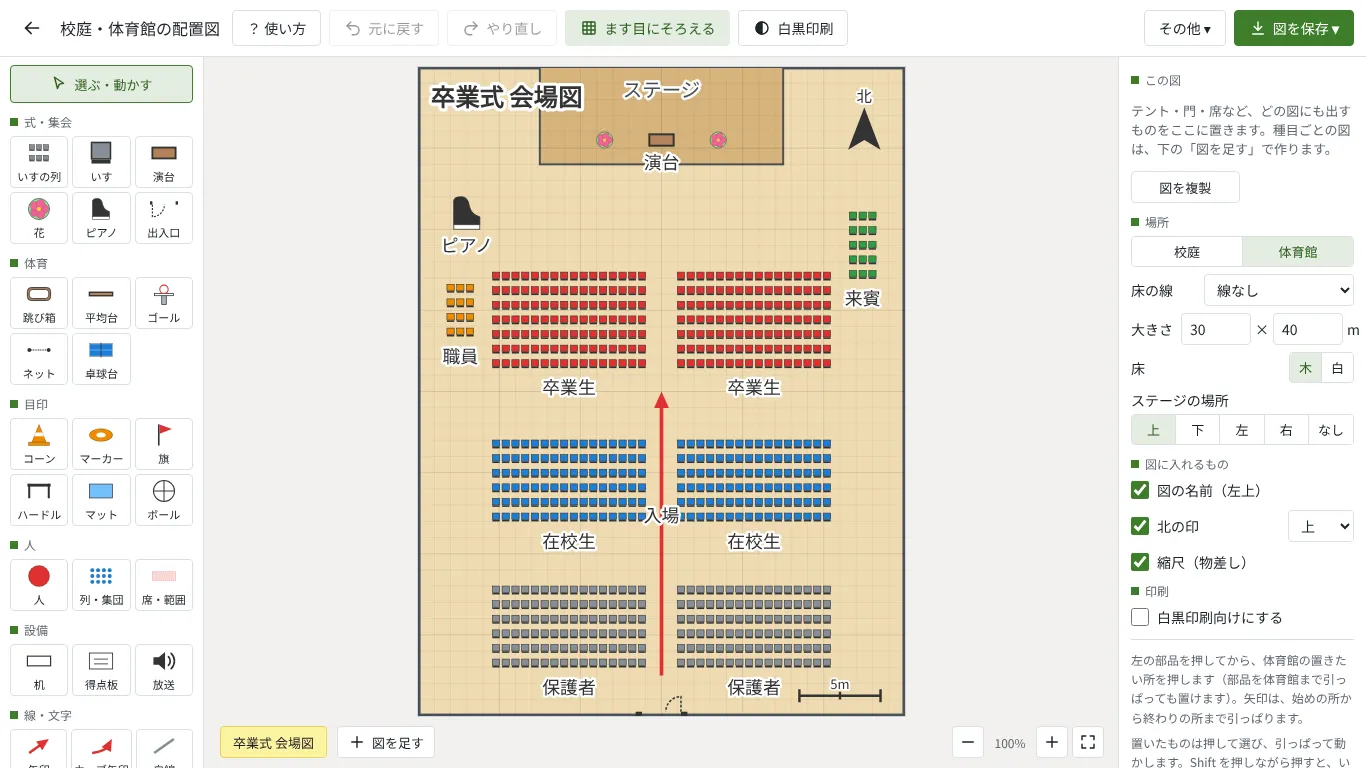
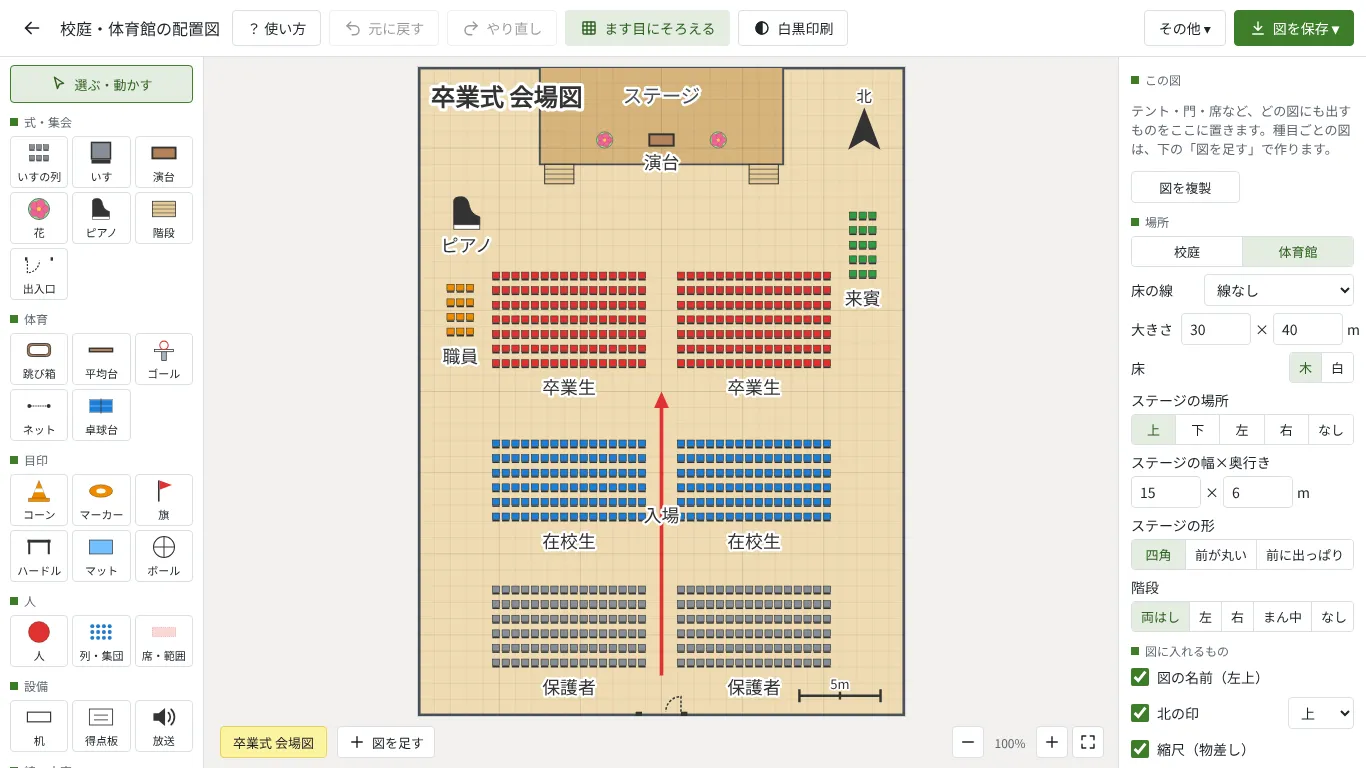
体育館のステージの幅・奥行き・形と階段を変えられるように
Claude-Session: https://claude.ai/code/session_01NRT8ofwJrEpkNX1s1YbXan

diff --git a/field-layout/drawing.js b/field-layout/drawing.js
@@ -1,7 +1,7 @@
 // Draws one figure (the school yard and what is on it) as SVG markup. The editor shows the same
 // markup that is saved as an image or PDF, so what you see is what you print.
 // Everything is in meters: the SVG's viewBox is the yard, 0 0 width height.
-import { PARTS, LINE_WIDTHS, LABEL_SIZE } from "./parts.js";
+import { PARTS, LINE_WIDTHS, LABEL_SIZE, STAIR_COLOR, drawStairs } from "./parts.js";
 
 // Where the figure is: the school yard (校庭) or the gym (体育館). Each starts with its own lines,
 // size and ground; parts are offered by place (parts.js).
@@ -35,6 +35,10 @@ export const GROUNDS = {
 };
 
 export const STAGES = { top: "上", bottom: "下", left: "左", right: "右", none: "なし" };
+export const STAGE_SHAPES = { rect: "四角", round: "前が丸い", apron: "前に出っぱり" };
+// "start" is the left end (the upper end when the stage is on a side wall).
+export const STAIRS = { both: "両はし", start: "左", end: "右", center: "まん中", none: "なし" };
+export const STAIRS_ACROSS = { ...STAIRS, start: "上", end: "下" };
 
 export const NORTH_ANGLES = { 0: "上", 45: "右上", 90: "右", 135: "右下", 180: "下", 225: "左下", 270: "左", 315: "左上" };
 
@@ -58,6 +62,10 @@ export function newDoc() {
     place: "yard",
     field: "track200",
     stage: "top",
+    stageWidth: 15,
+    stageDepth: 6,
+    stageShape: "rect",
+    stairs: "both",
     width: 110,
     height: 70,
     ground: "soil",
@@ -280,7 +288,6 @@ function drawTrack(doc, field, ink) {
 
 /* ---------- the gym ---------- */
 
-const STAGE_DEPTH = 6; // m
 const STAGE_COLOR = "#d6b47c";
 const COURT_LINE = 0.1; // m
 const COURTS = {
@@ -291,31 +298,66 @@ const COURTS = {
 
 // The floor of the gym: all of it but the side the stage is on.
 function floorRect(doc) {
-  const depth = doc.stage === "none" ? 0 : STAGE_DEPTH;
+  const depth = doc.stage === "none" ? 0 : doc.stageDepth;
   const x = doc.stage === "left" ? depth : 0;
   const y = doc.stage === "top" ? depth : 0;
   const across = doc.stage === "left" || doc.stage === "right";
   return { x, y, w: doc.width - (across ? depth : 0), h: doc.height - (across ? 0 : depth) };
 }
 
+// The stage is drawn as if it stood against the top wall (the wall at y = 0, its front at
+// y = depth, its middle at x = 0) and then turned onto its own wall.
+const STAGE_TURNS = {
+  top: (doc) => ({ at: [doc.width / 2, 0], angle: 0 }),
+  bottom: (doc) => ({ at: [doc.width / 2, doc.height], angle: 180 }),
+  left: (doc) => ({ at: [0, doc.height / 2], angle: -90 }),
+  right: (doc) => ({ at: [doc.width, doc.height / 2], angle: 90 }),
+};
+// Which way "start" (the left end, or the upper end on a side wall) lies along the stage.
+const START_SIDE = { top: -1, bottom: 1, left: 1, right: -1 };
+const STAIR = { w: 1.8, h: 1.2 }; // m
+
+function stageOutline(length, depth, shape) {
+  const half = length / 2;
+  if (shape === "round") {
+    const body = depth * 0.7;
+    return `M${fmt(-half)} 0H${fmt(half)}V${fmt(body)}Q0 ${fmt(depth * 1.3)} ${fmt(-half)} ${fmt(body)}Z`;
+  }
+  if (shape === "apron") {
+    const body = depth * 0.7;
+    const apron = Math.min(half, Math.max(2, length * 0.2));
+    return `M${fmt(-half)} 0H${fmt(half)}V${fmt(body)}H${fmt(apron)}V${fmt(depth)}H${fmt(-apron)}V${fmt(body)}H${fmt(-half)}Z`;
+  }
+  return `M${fmt(-half)} 0H${fmt(half)}V${fmt(depth)}H${fmt(-half)}Z`;
+}
+
+// Where the stairs go along the stage (x of their middle), at the front of the stage's ends.
+function stairSpots(doc, length) {
+  const end = length / 2 - STAIR.w / 2 - 0.3;
+  const start = START_SIDE[doc.stage] * end;
+  return { both: [-end, end], start: [start], end: [-start], center: [0], none: [] }[doc.stairs] ?? [];
+}
+
 function drawStage(doc, bw) {
   if (doc.stage === "none") return "";
   const across = doc.stage === "left" || doc.stage === "right";
   const side = across ? doc.height : doc.width;
-  const length = Math.min(side * 0.5, 16);
-  const start = (side - length) / 2;
-  const far = doc.stage === "right" || doc.stage === "bottom";
-  const depthAt = far ? (across ? doc.width : doc.height) - STAGE_DEPTH : 0;
-  const [x, y, w, h] = across ? [depthAt, start, STAGE_DEPTH, length] : [start, depthAt, length, STAGE_DEPTH];
+  const length = Math.min(doc.stageWidth, side);
+  const depth = doc.stageDepth;
+  const { at, angle } = STAGE_TURNS[doc.stage](doc);
   const fill = bw ? "#e9ecef" : STAGE_COLOR;
-  // The word goes near the back wall, leaving the front of the stage for a 演台 and its name.
-  const back = { top: [0, -0.28], bottom: [0, 0.28], left: [-0.28, 0], right: [0.28, 0] }[doc.stage];
-  const labelX = x + w / 2 + back[0] * w;
-  const labelY = y + h / 2 + back[1] * h;
-  // On a side wall the word runs along the wall, or it would not fit in the stage's depth.
-  const turn = across ? ` transform="rotate(${doc.stage === "left" ? -90 : 90} ${fmt(labelX)} ${fmt(labelY)})"` : "";
-  return `<rect x="${fmt(x)}" y="${fmt(y)}" width="${fmt(w)}" height="${fmt(h)}" fill="${fill}" stroke="#495057" stroke-width="0.12"/>` +
-    `<g font-family="${FONT}"${turn}>${words("ステージ", labelX, labelY, 1.2, { color: "#495057" })}</g>`;
+  const line = 'stroke="#495057" stroke-width="0.12"';
+  // The front edge of the body, where stairs stand (in front of a rounded or jutting front too).
+  const front = doc.stageShape === "rect" ? depth : depth * 0.7;
+  const stairs = stairSpots(doc, length).map((x) =>
+    `<g transform="translate(${fmt(x)} ${fmt(front + STAIR.h / 2)}) rotate(180)">${drawStairs({ ...STAIR, color: bw ? "#f1f3f5" : STAIR_COLOR })}</g>`).join("");
+  // The word goes near the back wall, leaving the front for a 演台 and its name. On a side wall
+  // it runs along the wall; on the bottom wall it is turned back so it is not upside down.
+  const back = Math.min(depth * 0.28, 2);
+  const upright = doc.stage === "bottom" ? ` transform="rotate(180 0 ${fmt(back)})"` : "";
+  return `<g transform="translate(${fmt(at[0])} ${fmt(at[1])}) rotate(${angle})">` +
+    `<path d="${stageOutline(length, depth, doc.stageShape)}" fill="${fill}" ${line}/>${stairs}` +
+    `<g font-family="${FONT}"${upright}>${words("ステージ", 0, back, 1.2, { color: "#495057" })}</g></g>`;
 }
 
 // Each court is drawn lying along x, centered on (0, 0); drawCourts turns it into place.

diff --git a/field-layout/panel.js b/field-layout/panel.js
@@ -1,7 +1,7 @@
 // The settings column on the right. It shows the place and the figure when nothing is chosen,
 // or what can be changed on the chosen items. `api` (from app.js) does the changing.
 import { COLORS, PARTS, MARKS, TEXT_SIZES, NUMBER_SIZE, CHAIR_STEP, chairCount, fitsPlace } from "./parts.js";
-import { FIELDS, GROUNDS, PLACES, STAGES, NORTH_ANGLES, BASE_INDEX, setPlace, isStraight, lineLength, lengthText } from "./drawing.js";
+import { FIELDS, GROUNDS, PLACES, STAGES, STAGE_SHAPES, STAIRS, STAIRS_ACROSS, NORTH_ANGLES, BASE_INDEX, setPlace, isStraight, lineLength, lengthText } from "./drawing.js";
 
 const SIZE_STEPS = { small: 0.7, normal: 1, large: 1.5 };
 const SIZE_WORDS = { small: "小", normal: "中", large: "大" };
@@ -116,8 +116,26 @@ function placeSection(api) {
   if (gym) {
     const stage = segmented("ステージの場所", STAGES, doc.stage, (key) => api.change(() => (doc.stage = key)));
     rows.push(el("div", { className: "row stack" }, ["ステージの場所", Object.assign(stage, { className: "seg wide" })]));
+    if (doc.stage !== "none") rows.push(...stageRows(api));
   }
   return rows;
+}
+
+// The stage's size, shape and stairs. Stairs placed anywhere else are a part (階段).
+function stageRows(api) {
+  const { doc } = api;
+  const across = doc.stage === "left" || doc.stage === "right";
+  const wide = (label, options, value, onPick) => Object.assign(segmented(label, options, value, onPick), { className: "seg wide" });
+  const size = el("span", { className: "unit" }, [
+    numberBox(doc.stageWidth, { min: 3, max: 100, step: 0.5, unit: "", label: "ステージの幅（m）" }, (value) => api.change(() => (doc.stageWidth = value))),
+    "×",
+    numberBox(doc.stageDepth, { min: 1, max: 30, step: 0.5, unit: "m", label: "ステージの奥行き（m）" }, (value) => api.change(() => (doc.stageDepth = value))),
+  ]);
+  return [
+    el("div", { className: "row stack" }, ["ステージの幅×奥行き", size]),
+    el("div", { className: "row stack" }, ["ステージの形", wide("ステージの形", STAGE_SHAPES, doc.stageShape, (key) => api.change(() => (doc.stageShape = key)))]),
+    el("div", { className: "row stack" }, ["階段", wide("階段", across ? STAIRS_ACROSS : STAIRS, doc.stairs, (key) => api.change(() => (doc.stairs = key)))]),
+  ];
 }
 
 function extrasSection(api) {

diff --git a/field-layout/parts.js b/field-layout/parts.js
@@ -228,6 +228,16 @@ function drawTable({ w, h, color }) {
     `<path d="M0 ${fmt(-h / 2 - h * 0.08)}V${fmt(h / 2 + h * 0.08)}" stroke="${INK}" stroke-width="${fmt(h * 0.06)}"/>`;
 }
 
+// Stairs from above: the steps as lines, the lowest step at the bottom (toward the floor).
+export const STAIR_COLOR = "#e6cc9a";
+export function drawStairs({ w, h, color }) {
+  const steps = Math.max(2, Math.round(h / 0.3));
+  let lines = "";
+  for (let i = 1; i < steps; i++) lines += `M${fmt(-w / 2)} ${fmt(-h / 2 + (h * i) / steps)}H${fmt(w / 2)}`;
+  return rect(-w / 2, -h / 2, w, h, `fill="${color}" stroke="${INK}" stroke-width="0.06"`) +
+    `<path d="${lines}" stroke="${INK}" stroke-width="0.04"/>`;
+}
+
 // labelAt: where the item's name goes. "center" for things big enough to write on.
 // stretch: the width and height can be changed separately (else the shape keeps its proportions).
 // outlined: drawn with a dark outline, so it still shows when white on white paper.
@@ -256,6 +266,7 @@ export const PARTS = {
   podium: { name: "演台", group: "式・集会", place: "gym", real: true, w: 1.5, h: 0.7, color: "#b5835a", labelAt: "below", stretch: true, outlined: true, draw: drawBox },
   flowers: { name: "花", group: "式・集会", place: "gym", real: true, w: 1, h: 1, color: "#f06595", labelAt: "below", draw: drawFlowers },
   piano: { name: "ピアノ", group: "式・集会", place: "gym", real: true, w: 1.6, h: 2, color: "#333333", labelAt: "below", draw: drawPiano },
+  stairs: { name: "階段", group: "式・集会", place: "gym", real: true, w: 1.8, h: 1.2, color: STAIR_COLOR, labelAt: "below", stretch: true, draw: drawStairs },
   door: { name: "出入口", group: "式・集会", place: "gym", real: true, w: 1.8, h: 1.2, color: "#333333", labelAt: "below", stretch: true, draw: drawDoor },
   vault: { name: "跳び箱", group: "体育", place: "gym", real: true, w: 1.6, h: 0.9, color: "#b5835a", labelAt: "below", draw: drawVault },
   beam: { name: "平均台", group: "体育", place: "gym", real: true, w: 5, h: 0.3, tile: { w: 2, h: 0.3 }, color: "#b5835a", labelAt: "below", stretch: true, outlined: true, draw: drawBox },

diff --git a/shared/js/changelog.js b/shared/js/changelog.js
@@ -5,7 +5,7 @@ export const CHANGELOG = [
   {
     date: "2026-11-24",
     items: [
-      "「校庭の配置図」を「校庭・体育館の配置図」にしました：右の「場所」で体育館を選ぶと、木の床にコートの線（バスケットボール・バレーボール・バドミントン）とステージ（上・下・左・右）が出る。入学式・卒業式・集会用に、いすの列（横に何こ×何列で、何きゃくかが分かる）・いす・演台・花・ピアノ・出入口、体育用に跳び箱・平均台・ゴール・ネット・卓球台を追加。体育館の部品は本当の大きさで置ける",
+      "「校庭の配置図」を「校庭・体育館の配置図」にしました：右の「場所」で体育館を選ぶと、木の床にコートの線（バスケットボール・バレーボール・バドミントン）とステージ（上・下・左・右）が出る。入学式・卒業式・集会用に、いすの列（横に何こ×何列で、何きゃくかが分かる）・いす・演台・花・ピアノ・出入口、体育用に跳び箱・平均台・ゴール・ネット・卓球台を追加。体育館の部品は本当の大きさで置ける。ステージは幅・奥行き・形（四角・前が丸い・前に出っぱり）と階段の場所（両はし・左・右・まん中）を選べ、好きな所に置ける「階段」の部品もある",
     ],
   },
   {

diff --git a/manual/data.js b/manual/data.js
@@ -1160,6 +1160,7 @@ export const MANUAL = [
       "テントや席など、どの図にも出すものは「全体の配置」の図に置きます",
       "「この図をコピー」して、Googleドキュメントやスライドに Ctrl + V で貼れます",
       "縮尺（物差し）や北の印も入れられます",
+      "体育館のステージは、右で幅・奥行き・形・階段の場所を変えられます。ほかの所の階段は「階段」の部品で置きます",
       "「いすの列」は、横に何こ×何列かを入れると何きゃくかが出ます。通路の分だけ、いくつかに分けて置きます",
     ],
     qa: [
